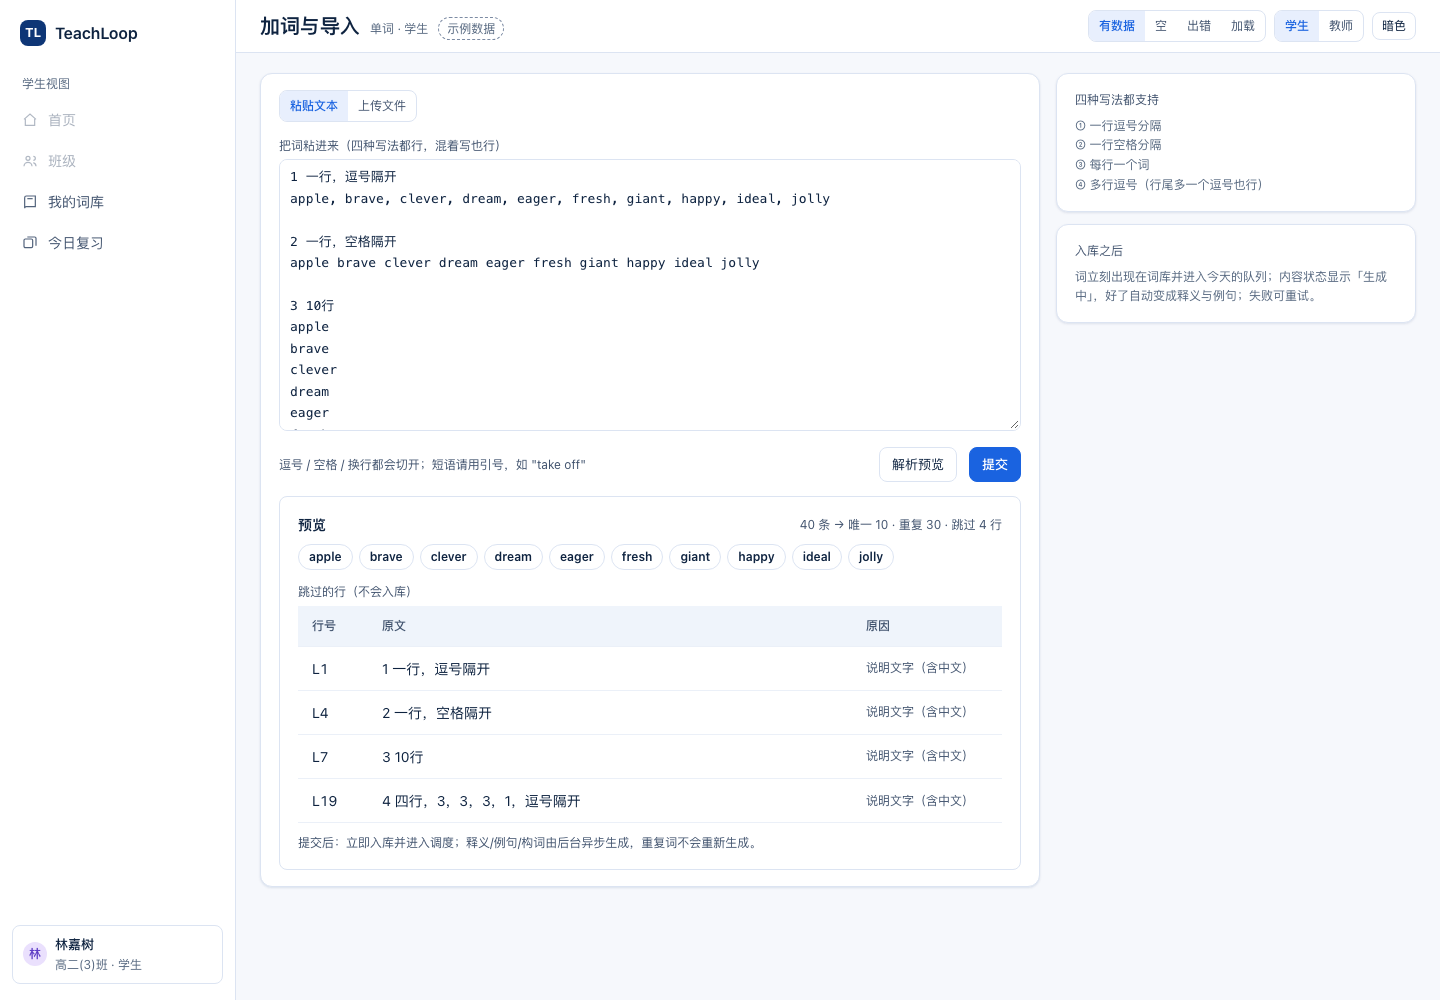
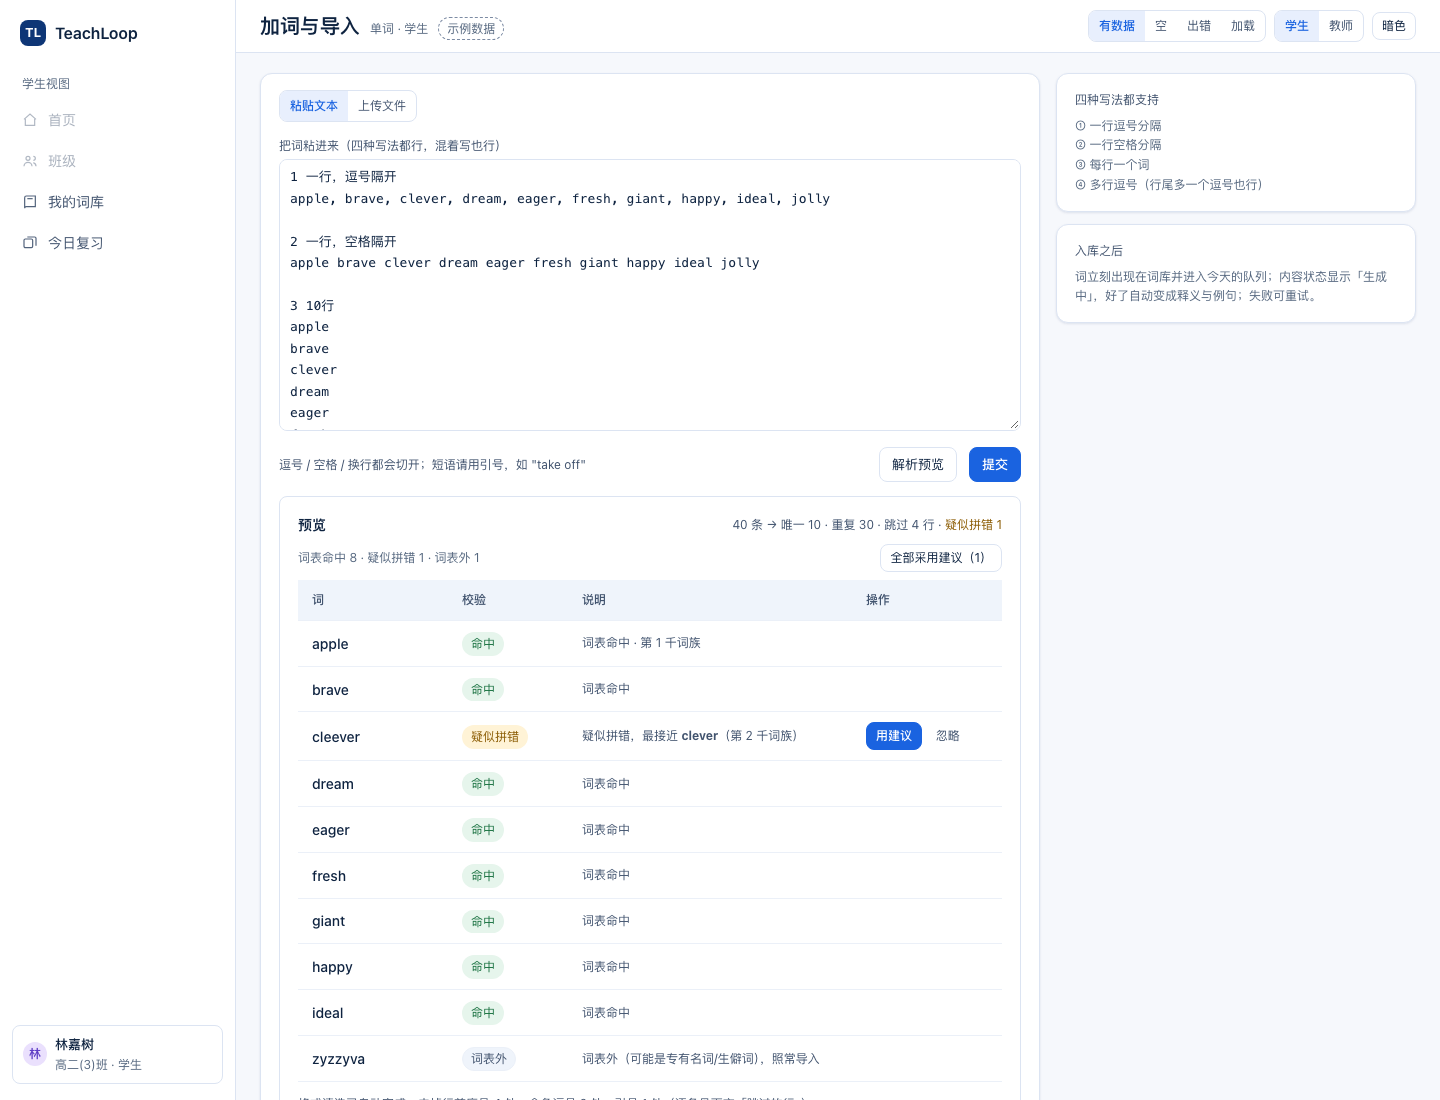
docs(vocab): 导入清洗与拼写校验规则落盘（三态、只提示不改写）
用户问「导入时拼错怎么办」，拆成三层：

- 格式清洗：自动做，但每类改动逐条报告（序号/全角标点/引号/音标混入）
- 拼写校验：用本地 80,579 个词形做三态判定（命中 / 疑似拼错给 ≤2 候选 / 词表外），
  只提示不自动改；批量采纳需二次确认并列出将被改的词
- 自动纠错：不做（专有名词、缩写、新词、生僻词都可能不在词表）

spec：AC-48.5/48.6/48.7、FR-115、§21；plan：§7.1 实现要点（BK-tree、降级策略、审计）；
原型导入预览加校验列与「全部采用建议」。AC 95→98，FR 24→25。

diff --git a/docs/mock/vocab-2026-10-23/index.html b/docs/mock/vocab-2026-10-23/index.html
@@ -942,12 +942,37 @@ function screenAdd(){
       ${S.parseDone?`
       <div class="card-pad" style="margin-top:14px;border:1px solid var(--line);border-radius:8px">
         <div class="between" style="margin-bottom:8px">
-          <b>预览</b><span class="sm muted">40 条 → 唯一 10 · 重复 30 · 跳过 4 行</span>
+          <b>预览</b>
+          <span class="sm muted">40 条 → 唯一 10 · 重复 30 · 跳过 4 行 · <span style="color:var(--amber)">疑似拼错 1</span></span>
         </div>
-        <div class="wf" style="margin-bottom:12px">
-          ${['apple','brave','clever','dream','eager','fresh','giant','happy','ideal','jolly']
-            .map(w=>`<span class="wfc"><b>${w}</b></span>`).join('')}
+        <div class="between" style="margin-bottom:8px">
+          <span class="sm muted-2">词表命中 8 · 疑似拼错 1 · 词表外 1</span>
+          <button class="btn sm" onclick="toast('全部采用建议：将修改 1 个词（cleever → clever），确认后执行')">全部采用建议（1）</button>
         </div>
+        <table style="margin-bottom:12px">
+          <thead><tr><th style="width:150px">词</th><th style="width:120px">校验</th><th>说明</th><th style="width:150px">操作</th></tr></thead>
+          <tbody>
+            ${[
+              ['apple','ok','词表命中 · 第 1 千词族',''],
+              ['brave','ok','词表命中',''],
+              ['cleever','warn','疑似拼错，最接近 <b>clever</b>（第 2 千词族）',''],
+              ['dream','ok','词表命中',''],
+              ['eager','ok','词表命中',''],
+              ['fresh','ok','词表命中',''],
+              ['giant','ok','词表命中',''],
+              ['happy','ok','词表命中',''],
+              ['ideal','ok','词表命中',''],
+              ['zyzzyva','unknown','词表外（可能是专有名词/生僻词），照常导入',''],
+            ].map(([w,st,note])=>`<tr>
+              <td style="font-weight:500">${w}</td>
+              <td>${st==='ok'?'<span class="chip ok">命中</span>':st==='warn'?'<span class="chip due">疑似拼错</span>':'<span class="chip">词表外</span>'}</td>
+              <td class="sm muted">${note}</td>
+              <td>${st==='warn'?`<button class="btn sm primary" onclick="toast('已改为 clever')">用建议</button>
+                <button class="btn ghost sm" onclick="toast('保留 cleever')">忽略</button>`:''}</td>
+            </tr>`).join('')}
+          </tbody>
+        </table>
+        <div class="sm muted" style="margin-bottom:12px">格式清洗已自动完成：去掉行首序号 4 处、全角逗号 2 处、引号 1 处（逐条见下方「跳过的行」）。</div>
         <div class="sm muted" style="margin-bottom:4px">跳过的行（不会入库）</div>
         <table>
           <thead><tr><th style="width:70px">行号</th><th>原文</th><th style="width:150px">原因</th></tr></thead>

diff --git a/specs/004-vocab/spec.md b/specs/004-vocab/spec.md
@@ -66,6 +66,9 @@
 - [ ] AC-48.2 字段映射：有表头时才做列映射（正面必填映射，释义可选映射）；发音、例句、构词分析、笔记、标签、卡组名可选；匹配不到时在预览页手动选列。**无表头的纯词表**跳过映射，直接按 FR-108 的切分规则解析。**「批量导入文件」与「粘贴文本加词」是同一个动作的两种输入**：都只做「把词加进词表」，提交后走同一条异步生成管线，结果一致。
 - [ ] AC-48.3 **导入/加词只负责入库，内容异步生成**：提交后立刻能看到这些词（词形、来源、语言），释义/例句/构词/词族由后台异步生成；**已存在的词不重复生成**；生成中、生成成功、生成失败三种状态在列表可见；失败可单条或批量重试。
 - [ ] AC-48.4 入库即可进入调度：新词当天进队列；若内容尚未生成完，卡片显示「内容生成中」并允许跳过，**不阻塞**；超过 24 小时仍失败则标「内容缺失」、移出队列并在词库提醒。
+- [ ] AC-48.5 **格式清洗自动执行且可追溯**：去首尾/连续空格、全角逗号分号、BOM、引号、行首序号与项目符号、混入的音标或词性标注；每类改动在预览里逐条列出「第 N 行：去掉了 X」（不静默）。
+- [ ] AC-48.6 **拼写校验只提示、不自动改**：每个词标为「词表命中 / 疑似拼错（给 ≤2 个候选）/ 词表外」；疑似行可逐条「用建议」或「忽略」；顶部可「全部采用建议」，但**必须二次确认并列出将被改写的词**。
+- [ ] AC-48.7 「词表外」只是提示，**不阻拦导入**；专有名词、缩写、生僻词照常入库，并在列表里保留「词表外」标记直到内容生成完成。
 - [ ] AC-48.3 导入完成后给出：成功 N 条、重复跳过 M 条、失败 K 条；失败逐条给**行号 + 原值片段 + 原因**（如「第 55 行：缺少释义」）。
 - [ ] AC-48.4 1000 行文件能导入成功，且服务端峰值堆内存不随行数线性增长（验收：1000 行与 10000 行各跑一次，峰值增长 ≤50%）。
 - [ ] AC-48.5 行内带卡组名时自动匹配同名卡组视图，不存在则创建；若已达 AC-47.4 的上限，**导入继续**，该批不打视图并明确提示。
@@ -238,6 +241,7 @@
 | FR-112 | 自由复习会话：范围为当前筛选结果、不受到期与每日新卡限制、支持「已熟悉」快捷键、可随时结束并展示小结、可续上次位置 | US-61 |
 | FR-113 | 异步内容生成：新词入库后后台生成释义/例句/构词/词族，按词形幂等（已存在不重复生成），失败可重试、超时标内容缺失；生成服务可配置（模型、开关、并发与成本上限） | US-48, US-60 |
 | FR-114 | 本地词表索引：由 `WORDLIST_DIR` 的 Paul Nation 词族表构建「词形 → 族 + 频次 + 频段」索引（可重建、带 manifest 与 sha256）；原始 txt 不入库；未命中的词由异步生成回填 | US-60 |
+| FR-115 | 导入清洗与拼写校验：格式问题自动清洗并逐条报告；拼写用本地词表做三态判定（命中/疑似/词表外），疑似给候选但**不自动改写**，批量采纳需二次确认 | US-48 |
 
 ## 5. 调度参数（默认 SM-2 策略，本期取值）
 
@@ -548,3 +552,15 @@
 | **删除** | **只在词库页**（行内/批量） | 软删除：列表、搜索、队列、统计全部看不到；历史日志保留 | 再次导入/被布置时按 AC-55.3 恢复 |
 
 三条刻意不重叠：收藏不改学习状态；暂停不删词；删除不出现在详情页（避免在「看一个词」的页面里做不可逆操作）。
+
+
+## 21. 导入时的清洗与拼写校验（2026-10-23 定）
+
+| 层 | 做不做 | 规则 |
+| :--- | :--- | :--- |
+| **格式清洗** | **自动** | 去空格/全角标点/BOM/引号/行首序号/混入的音标与词性；每类改动逐条报告 |
+| **拼写校验** | **只提示** | 用本地 80,579 个词形做三态判定：命中 / 疑似拼错（编辑距离 ≤2，给 ≤2 候选）/ 词表外 |
+| **自动纠错** | **不做** | 专有名词、缩写、新词、生僻词都可能"不在词表"，静默改词是数据事故 |
+| **批量采纳** | 做，但要确认 | 顶部「全部采用建议」必须二次确认，并列出将被改写的词 |
+
+判断依据：词表外 ≠ 错误（`zyzzyva`、`ICBM`、`Polynesia` 都合法）；疑似拼错 ≈ 未命中但有编辑距离 ≤2 的候选。

diff --git a/specs/004-vocab/plan.md b/specs/004-vocab/plan.md
@@ -162,6 +162,17 @@ lookup(form):
   所有跳过行必须带「行号 + 原文 + 原因」出现在预览里（不静默丢弃）。
 - 实测样例：`specs/004-vocab/fixtures/import/sample-4-formats.md`（22 行）→ 40 条 token → 去重 10 个，
   4 行中文说明被跳过。该文件同时作为解析器的固定测试夹具。
+
+### 7.1 清洗与拼写校验（对应 FR-115）
+
+- **格式清洗**在解析器内完成，返回 `cleanups[]`（行号 + 规则 + 前后值），预览页据此渲染报告。
+- **拼写校验**复用词表索引（§3）：
+  - 命中 → `OK`；
+  - 未命中 → 在 BK-tree（构建期由 80,579 个词形生成）里查编辑距离 ≤2 的候选，取频段最高 ≤2 个 → `SUSPECT`；
+  - 无候选 → `UNKNOWN`（词表外），不阻拦导入。
+- 性能：1000 行导入时逐词查询，BK-tree 单次毫秒级；整体仍在 30s 预算内（AC-48.4）。
+- **不做自动改写**：`SUSPECT` 行由用户逐条决定或批量确认；提交时把用户的选择记进审计（谁在什么时候把 A 改成了 B）。
+- 词表索引不可用时降级：跳过拼写校验、只做格式清洗，并在预览里说明「词表未加载，未做拼写校验」。
 - 预览返回：总行数、前 20 条、预计新建/重复/失败；提交后入库并批量入队生成。
 - 内存：流式按行解析，1000/10000 行压测（AC-48.4 的 50% 峰值增长）。
 - 编码：UTF-8（含 BOM）；其他编码明确报错（AC-48.7）。
@@ -210,7 +221,7 @@ lookup(form):
 
 | 层 | 覆盖 |
 | :--- | :--- |
-| 单元 | 解析器 4 种样例 + CRLF/变音符/重复；SM-2 四种评分；TTS 键计算；自由复习 cursor；规范化与去重 |
+| 单元 | 解析器 4 种样例 + CRLF/变音符/重复；清洗规则（序号/全角/引号）；拼写三态与候选；SM-2 两档映射；TTS 键计算；自由复习 cursor；规范化与去重 |
 | 集成（Testcontainers） | 导入 1000 行（成功/重复/失败行号）、发词快照、领取去重、越权 404、移出/重新加入、自由复习续次、幂等评分 |
 | 性能 | 1000 行导入 ≤30s；今日队列 p95 ≤200ms（1 万词/学生）；1 万行内存增长 ≤50% |
 | 标签 | `@Tag("oss")` 走 MinIO（T386）；`@Tag("ai")` 走真机模型；默认 `make test` 不联网 |

diff --git a/docs/mock/vocab-2026-10-23/README.md b/docs/mock/vocab-2026-10-23/README.md
@@ -4,6 +4,18 @@
 单文件、无依赖、无构建：**双击 `index.html` 就能点**。
 
 
+## 第十版（导入的清洗与拼写校验）
+
+导入预览现在有三态校验，并且**从不自动改词**：
+
+| 状态 | 界面 | 操作 |
+| :--- | :--- | :--- |
+| ✅ 词表命中 | 绿色「命中」 | — |
+| ⚠ 疑似拼错 | 黄色「疑似拼错」+ 候选（编辑距离 ≤2） | 逐条「用建议 / 忽略」，或顶部「全部采用建议」（二次确认） |
+| ❔ 词表外 | 灰色「词表外」 | 不阻拦导入；专有名词/缩写/生僻词照常入库 |
+
+格式清洗（序号、全角标点、引号）自动完成，但每类改动都在预览里逐条列出。
+
 ## 第九版（收藏 / 暂停 / 删除 分工）
 
 | 动作 | 在哪 | 说明 |
